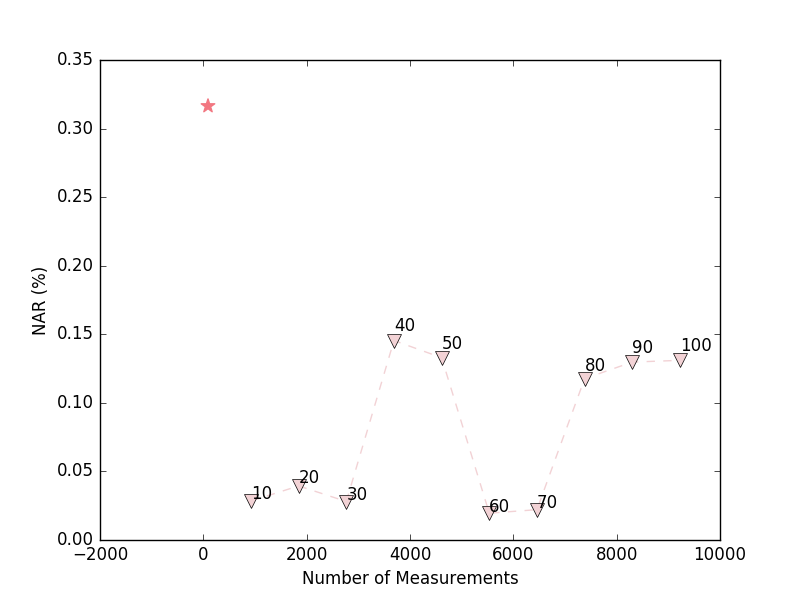
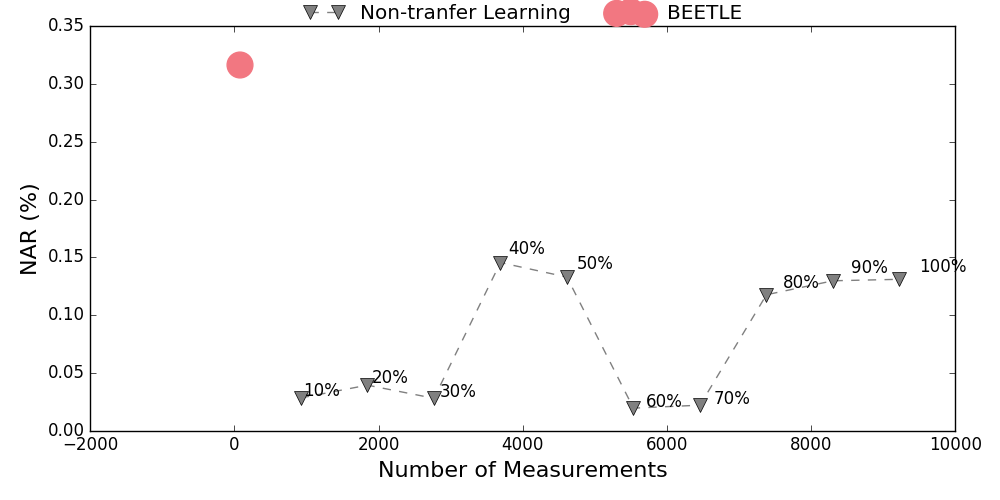
final push

Changed region(s): [[0.0, 0.0, 1.0, 0.99], [0.4688, 0.48, 0.625, 0.6]]

diff --git a/RQ2_2/draw_pareto.py b/RQ2_2/draw_pareto.py
@@ -2,6 +2,8 @@ import pickle
 import os
 import numpy as np
 import pandas as pd
+from pylab import rcParams
+rcParams['figure.figsize'] =  10,5
 
 def find_no_of_configuration(filename):
     return pd.read_csv(filename).shape[0]
@@ -54,19 +56,22 @@ for file in files:
     for key in keys:
         x.append(consolidated[file][key][0])
         y.append(consolidated[file][key][1])
-    keys = ['Ex', '10', '20', '30', '40', '50', '60', '70', '80', '90', '100', ]
+    keys = ['Ex', '10%', '20%', '30%', '40%', '50%', '60%', '70%', '80%', '90%', '100%', ]
 
     # for xx, yy, marker in zip(x[1:], y[1:], markers[1:]):
-    plt.plot( y[1:],x[1:], 'v--', markersize=10, color='#F2D2D5', label='Source Model')
-    plt.scatter( y[0], x[0], marker=markers[0], s=104, color='#F27781', label='Local Model')
-    plt.ylabel('NAR (%)', fontsize=12)
-    plt.xlabel('Number of Measurements', fontsize=12)
+    plt.plot( y[1:],x[1:], 'v--', markersize=10, color='gray', label='Non-tranfer Learning')
+    plt.scatter( y[0], x[0], marker='o', s=344, color='#F27781', label='BEETLE')
+    plt.ylabel('NAR (%)', fontsize=16)
+    plt.xlabel('Number of Measurements', fontsize=16)
     # plt.xscale('log')
     # plt.ylim(0, 11000)
+    plt.legend(loc='upper center', bbox_to_anchor=(0.5, 1.10), ncol=2, fancybox=True, frameon=False)
+    print keys[0], x[0] * 1.03, y[0]
     plt.annotate(keys[0], xy=(x[0] * 1.03, y[0]))
     for label, xx, yy in zip(keys[1:], x[1:], y[1:]):
         print label, xx, yy
-        plt.annotate(label, xy=(yy, xx*1.05))
+        plt.annotate(label, xy=(yy*1.03, xx*1.05), fontsize=12)
+    plt.tight_layout()
     plt.savefig("./Pareto/"+name)
     plt.cla()
 
